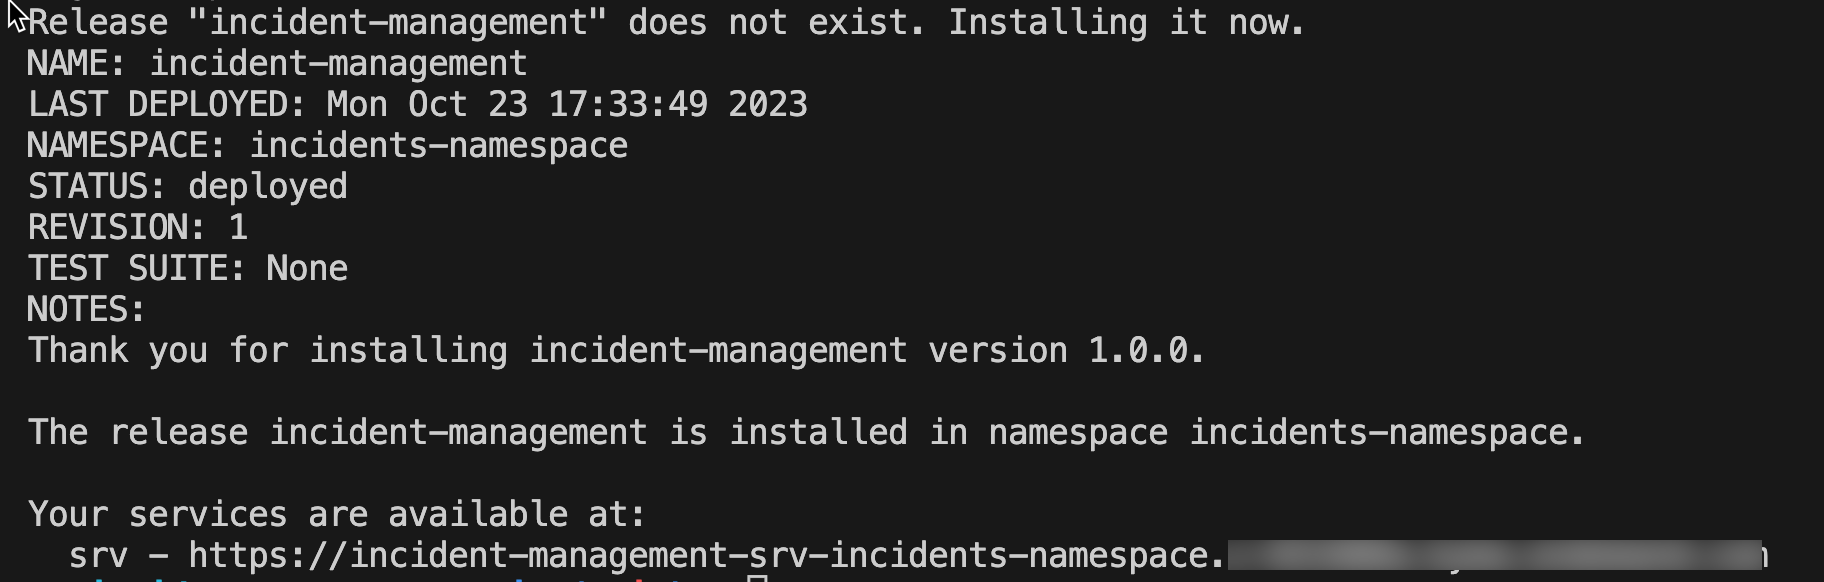
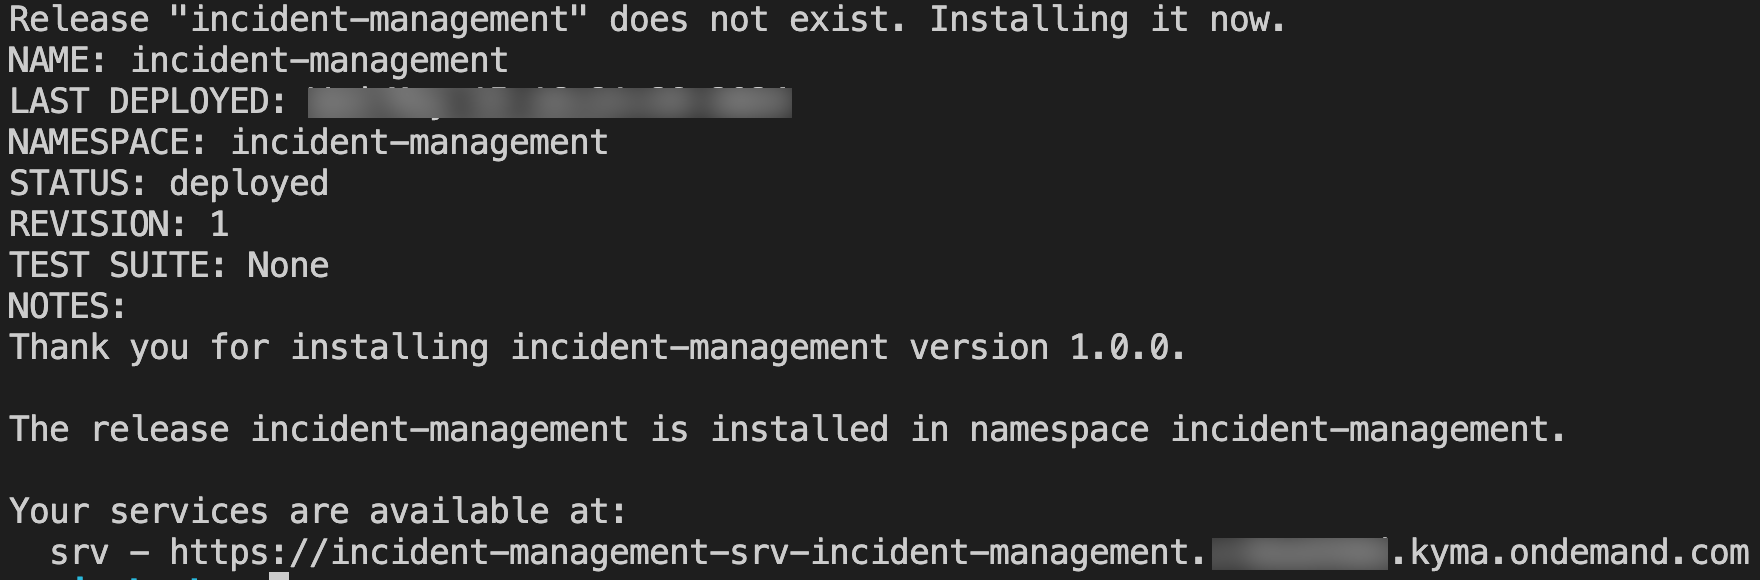
updates

Changed region(s): [[0.0, 0.0, 0.7188, 0.6517], [0.0, 0.8379, 1.0, 1.0], [0.0, 0.7138, 0.875, 0.7759]]

diff --git a/documentation/remote-service/develop/extend-app.md b/documentation/remote-service/develop/extend-app.md
@@ -7,9 +7,11 @@
 
 ## Content
 
-1. Navigate to the project's root folder of the Incident Management application. 
+1. If you are using cloud foundry open Business applicaiton studio for development and if you are using Kyma open Visual Studio Code for development.
+
+2. Navigate to the project's root folder of the Incident Management application. 
    
-2.  In the *package.json*, change the name to `incident-management`.
+3.  In the *package.json*, change the name to `incident-management`.
     
     ```js
     {
@@ -18,13 +20,14 @@
       "dependencies": {
         ....
     ```
-3. Add some additional libraries to the *package.json* for the communication with external systems. In the terminal, go to the project's root folder of the Incident Management application and run the following command:  
+4. Add some additional libraries to the *package.json* for the communication with external systems. In the terminal, go to the project's root folder of the Incident Management application and run the following command:  
    
    ```bash
    npm add @sap-cloud-sdk/http-client@3.x @sap-cloud-sdk/util@3.x @sap-cloud-sdk/connectivity@3.x @sap-cloud-sdk/resilience@3.x
    ```
 
-4. Import the Business Partner API to your project.
+5. Import the Business Partner API to your project by following one of the below options based on your development environment.
+- If you are in Business Application Studio:
    * In the project explorer, right-click on the project's root folder and select **Upload...**
 
      ![upload API](./images/upload-api.png)
@@ -37,13 +40,17 @@
       ```
    * You can find the generated files in the **srv/external** folder.
 
-5. Change the conditions for the relationships between some entities. Open **srv/external/API_BUSINESS_PARTNER.cds**. Search for **entity API_BUSINESS_PARTNER.A_BusinessPartner**. Scroll down to the **to_BusinessPartnerAddress** section and replace it with the following:
+- If you are in Visual Studio Code:
+   * Copy the *API_BUSINESS_PARTNER.edmx* file.
+   * Navigate to the root folder of your project and paste the copied file.
+
+6. Change the conditions for the relationships between some entities. Open **srv/external/API_BUSINESS_PARTNER.cds**. Search for **entity API_BUSINESS_PARTNER.A_BusinessPartner**. Scroll down to the **to_BusinessPartnerAddress** section and replace it with the following:
 
     ```js
     to_BusinessPartnerAddress : Composition of many API_BUSINESS_PARTNER.A_BusinessPartnerAddress on to_BusinessPartnerAddress.BusinessPartner = BusinessPartner;
     ```
 
-9. Search for **entity API_BUSINESS_PARTNER.A_BusinessPartnerAddress**. Replace the associations for email address and phone number.
+7. Search for **entity API_BUSINESS_PARTNER.A_BusinessPartnerAddress**. Replace the associations for email address and phone number.
 
     ```js
     to_EmailAddress : Composition of many API_BUSINESS_PARTNER.A_AddressEmailAddress on to_EmailAddress.AddressID = AddressID;
@@ -51,9 +58,9 @@
     to_PhoneNumber : Composition of many API_BUSINESS_PARTNER.A_AddressPhoneNumber on to_PhoneNumber.AddressID = AddressID;
     ```
 
-6. Create a new file *remote.cds* in the *srv* folder.
+8. Create a new file *remote.cds* in the *srv* folder.
 
-7. Copy the snippet to the newly created *remote.cds* file
+9. Copy the snippet to the newly created *remote.cds* file
 
     ```js
     using { API_BUSINESS_PARTNER as S4 } from './external/API_BUSINESS_PARTNER';
@@ -103,7 +110,7 @@
       ```
 
   * Add the custom handler implementation after the init method
-      ```javascript
+      ```js
         async onCustomerRead(req) {
           console.log('>> delegating to S4 service...', req.query);
           const top = parseInt(req._queryOptions?.$top) || 100;
@@ -137,14 +144,14 @@
 
 *  Add a custom handler for CREATE, UPDATE, DELETE of incidents. Add this code snippet to the *init* method
 
-    ```javascript
+    ```js
     this.on(['CREATE','UPDATE'], 'Incidents', (req, next) => this.onCustomerCache(req, next));
     this.S4bupa = await cds.connect.to('API_BUSINESS_PARTNER');
     this.remoteService = await cds.connect.to('RemoteService');
     ```
 * Add the custom handler after the *init* method
 
-  ```javascript
+  ```js
     async onCustomerCache(req, next) {
       const { Customers } = this.entities;
       const newCustomerId = req.data.customer_ID;

diff --git a/documentation/remote-service/develop/test-with-mock.md b/documentation/remote-service/develop/test-with-mock.md
@@ -1,16 +1,18 @@
-# Test the Incident Management Application
+# Test the Incident Management Application locally
 
 ## Usage scenario
 
-To increase your development speed, it is helpful to run and test your implementation in a local environment. In this section you will learn how to set up and use a mock server for running your development tests.  
+To increase your development speed, it is helpful to run and test your implementation in a local environment. In this section you will learn how to test the incident management applicaiton locally.
 
 ## Content
 
 ### Create Mock Data for the New Entities.
 
-1. Navigate to the Incident Management Application code base and Create a new folder **data** in the `srv/external` folder.
+1. If you are using cloud foundry open Business applicaiton studio for development and if you are using Kyma open Visual Studio Code for development.
 
-2. Create a new file **API_BUSINESS_PARTNER-A_BusinessPartner.csv** and add the following data to it
+2. Navigate to the Incident Management Application code base and Create a new folder **data** in the `srv/external` folder.
+
+3. Create a new file **API_BUSINESS_PARTNER-A_BusinessPartner.csv** and add the following data to it
    
    ```csv
    BusinessPartner;FirstName;LastName;BusinessPartnerName;BusinessPartnerIsBlocked;
@@ -19,7 +21,7 @@ To increase your development speed, it is helpful to run and test your implement
    1004100;Sunny;Sunshine;Sunny Sunshine;true
    ```
 
-3. Create a new file **API_BUSINESS_PARTNER-A_BusinessPartnerAddress.csv** and add the following data to it
+4. Create a new file **API_BUSINESS_PARTNER-A_BusinessPartnerAddress.csv** and add the following data to it
 
    ```csv
    BusinessPartner;AddressID;
@@ -28,7 +30,7 @@ To increase your development speed, it is helpful to run and test your implement
    1004100;456
    ```
 
-4. Create a new file **API_BUSINESS_PARTNER-A_AddressEmailAddress.csv** and add the following data to it
+5. Create a new file **API_BUSINESS_PARTNER-A_AddressEmailAddress.csv** and add the following data to it
 
    ```csv
    AddressID;EmailAddress;Person;OrdinalNumber
@@ -36,7 +38,7 @@ To increase your development speed, it is helpful to run and test your implement
    345;testjohn@demo.com;Smith;222
    456;testhencry@demo.com;johnson;333
    ```
-5. Create a new file **API_BUSINESS_PARTNER-A_AddressPhoneNumber.csv** and add the following data to it
+6. Create a new file **API_BUSINESS_PARTNER-A_AddressPhoneNumber.csv** and add the following data to it
 
    ```csv
    AddressID;PhoneNumber;Person;OrdinalNumber

diff --git a/documentation/eventing/deploy/cf/deploy-to-cf-mock.md b/documentation/eventing/deploy/cf/deploy-to-cf-mock.md
@@ -19,7 +19,7 @@ In this chapter you will add the SAP Event Mesh service to your project.
     - Adds the following entry in the mta.yaml file:
 
         ```yaml
-            - name: inicdent-management-messaging
+            - name: incident-management-messaging
               type: org.cloudfoundry.managed-service
               parameters:
               service: enterprise-messaging
@@ -29,7 +29,7 @@ In this chapter you will add the SAP Event Mesh service to your project.
     - Adds the following entry in the `requires` section of `incident-management-srv` module:
 
         ```yaml
-            - name: inicdent-management-messaging
+            - name: incident-management-messaging
         ```
 
 2. Make sure you are in the project folder of your application and run the following command:

diff --git a/documentation/eventing/deploy/cf/install-mock-server-cf.md b/documentation/eventing/deploy/cf/install-mock-server-cf.md
@@ -19,7 +19,7 @@ In this section you would redeploy the mock server and bind it to the SAP Event 
     1. Add the following code snippet to add a resources section at the end of the file:
         ```yaml
             resources: 
-            - name: inicdent-management-messaging 
+            - name: incident-management-messaging 
             type: org.cloudfoundry.existing-service  
         ```
         ```yaml
@@ -32,7 +32,7 @@ In this section you would redeploy the mock server and bind it to the SAP Event 
         ```yaml
         - name: mock-srv
             requires: 
-            - name: inicdent-management-messaging  
+            - name: incident-management-messaging  
         ```
 
 4. In the project folder, right-click the **mta.yaml** file and choose **Build MTA Project**.

diff --git a/documentation/remote-service/deploy/kyma/deploy-to-kyma.md b/documentation/remote-service/deploy/kyma/deploy-to-kyma.md
@@ -123,10 +123,10 @@ html5-apps-deployer:
 2. Deploy using Helm command:
 
   ```sh
-  helm upgrade --install incident-management --namespace incidents-namespace ./chart \
+  helm upgrade --install incident-management --namespace incident-management ./chart \
   --set-file xsuaa.jsonParameters=xs-security.json --set-file s4-hana-cloud.jsonParameters=bupa.json
   ```
-This installs the Helm chart from the chart folder with the release name ***incident-management*** in the namespace ***incidents-namespace***.
+This installs the Helm chart from the chart folder with the release name ***incident-management*** in the namespace ***incident-management***.
 
 ```info
 With the ***helm upgrade --install*** command, you can install a new chart as well as upgrade an existing chart.

diff --git a/documentation/eventing/prepare/cf-prerequisites-mock.md b/documentation/eventing/prepare/cf-prerequisites-mock.md
@@ -1,7 +1,7 @@
 # Make sure prerequisites are fulfilled and all required systems are in place
 
 ## Prerequisites
-* Complete the [Remote Service Integration](../../remote-service/README.md) tutorial.
+* Complete the [Remote Service Integration](../../remote-service/remote-service-mock-cf.md) tutorial.
 * Undeploy the application that was deployed to SAP BTP in the Remote Service Integration tutorial.
     - Undeploy the application using the following command:
       

diff --git a/documentation/eventing/prepare/cf-prerequisites.md b/documentation/eventing/prepare/cf-prerequisites.md
@@ -1,7 +1,7 @@
 # Make sure prerequisites are fulfilled and all required systems are in place
 
 ## Prerequisites
-* Complete the [Remote Service Integration](../../remote-service/README.md) tutorial.
+* Complete the [Remote Service Integration](../../remote-service/remote-service-s4h-cf.md) tutorial.
 * Undeploy the application that was deployed to SAP BTP in the Remote Service Integration tutorial.
     - Undeploy the application using the following command:
       

diff --git a/documentation/eventing/prepare/kyma-prerequisites-mock.md b/documentation/eventing/prepare/kyma-prerequisites-mock.md
@@ -1,7 +1,7 @@
 # Make sure prerequisites are fulfilled and all required systems are in place
 
 ## Prerequisites
-* Complete the [Remote Service Integration](../../remote-service/README.md) tutorial.
+* Complete the [Remote Service Integration](../../remote-service/remote-service-mock-kyma.md) tutorial.
 * Undeploy the application that was deployed to SAP BTP in the Remote Service Integration tutorial.
 
     - Undeploy the application using the following command:

diff --git a/documentation/eventing/prepare/kyma-prerequisites.md b/documentation/eventing/prepare/kyma-prerequisites.md
@@ -1,7 +1,7 @@
 # Make sure prerequisites are fulfilled and all required systems are in place
 
 ## Prerequisites
-* Complete the [Remote Service Integration](../../remote-service/README.md) tutorial.
+* Complete the [Remote Service Integration](../../remote-service/remote-service-s4h-kyma.md) tutorial.
 * Undeploy the application that was deployed to SAP BTP in the Remote Service Integration tutorial.
 
     - Undeploy the application using the following command:

diff --git a/documentation/eventing/develop/run-app-locally.md b/documentation/eventing/develop/run-app-locally.md
@@ -17,7 +17,7 @@ Before you deploy the application on SAP BTP, you can run the CAP application lo
 5. Copy the following code snippet to the **request.http** file:
 
 ```
-PATCH  http://localhost:4004/odata/v2/api-business-partner/A_BusinessPartner('1004100') HTTP/1.1
+PATCH  http://localhost:4004/odata/v4/api-business-partner/A_BusinessPartner('1004100') HTTP/1.1
 Content-Type: application/json
 Authorization: Basic YWxpY2U6
 

diff --git a/documentation/eventing/develop/extend-app.md b/documentation/eventing/develop/extend-app.md
@@ -23,7 +23,7 @@ module.exports = function () {
       console.log('>> BusinessPartner.Changed')
       await messaging.emit('sap.s4.beh.businesspartner.v1.BusinessPartner.Changed.v1', event);
     })
-  },
+  }
 ```
 
 3. Open the **package.json** file in the root folder of the project and copy the code snippet to the `requires` section of the file. This will add SAP Event Mesh service as a dependency to your application:

diff --git a/documentation/remote-service/deploy/kyma/deploy-app-using-mock-kyma.md b/documentation/remote-service/deploy/kyma/deploy-app-using-mock-kyma.md
@@ -1,4 +1,4 @@
-# Run the Incident Management Application with Mock Server
+# Deploy and Run the Incident Management Application with Mock Server
 
 ## Usage Scenario
 
